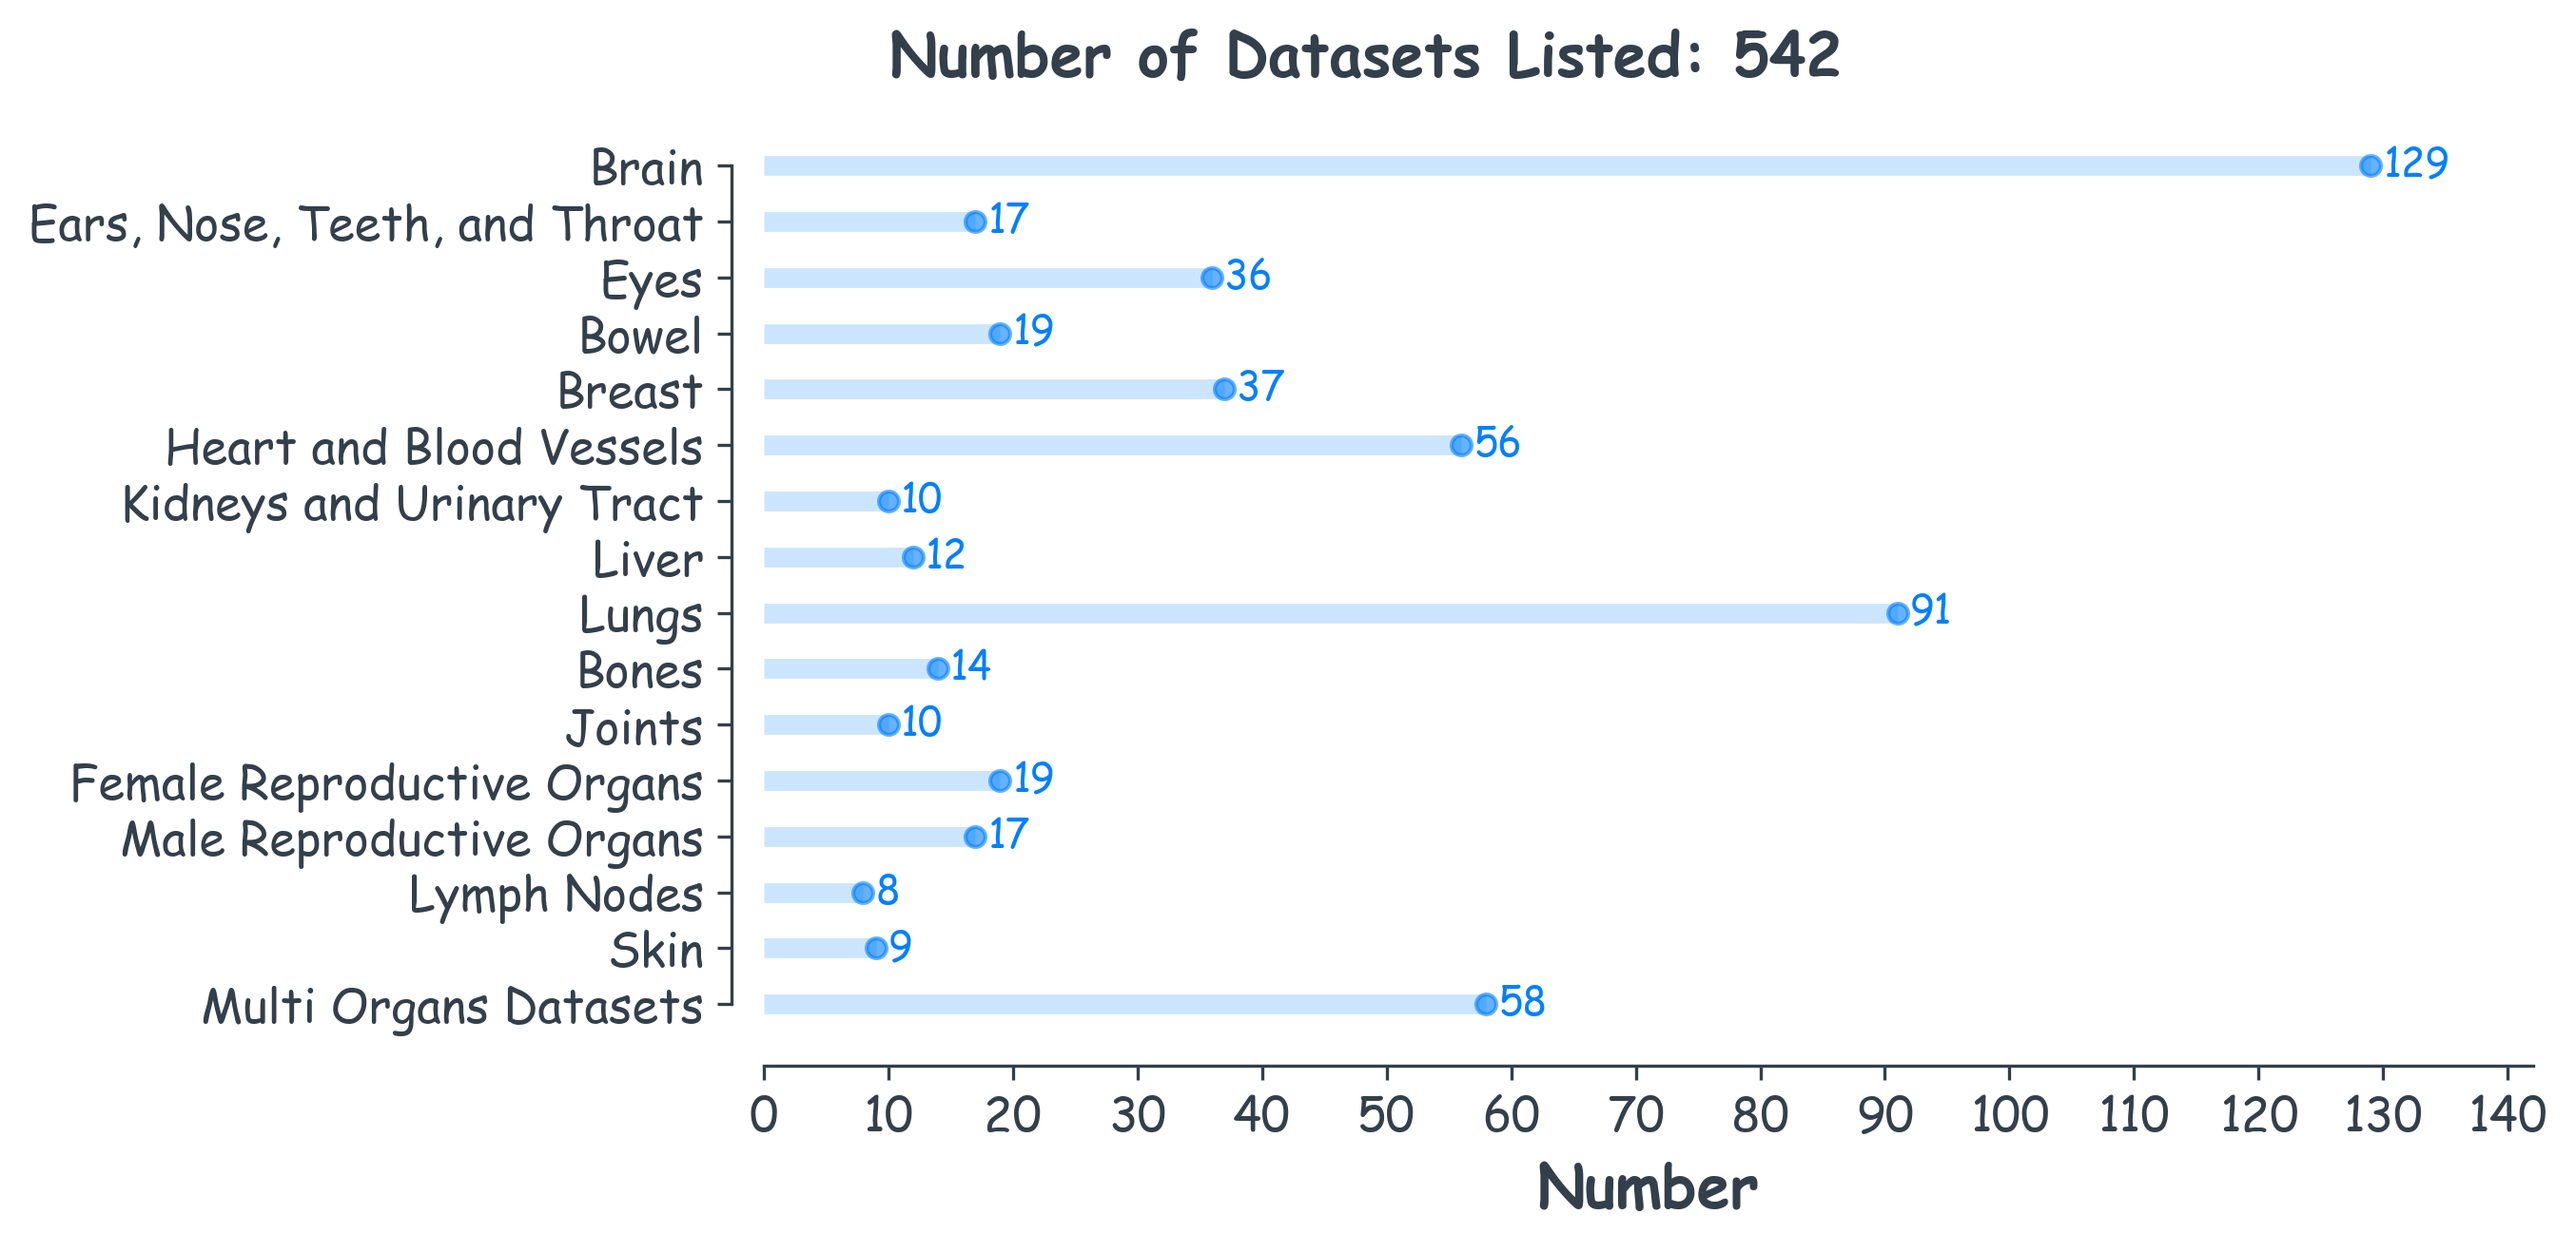
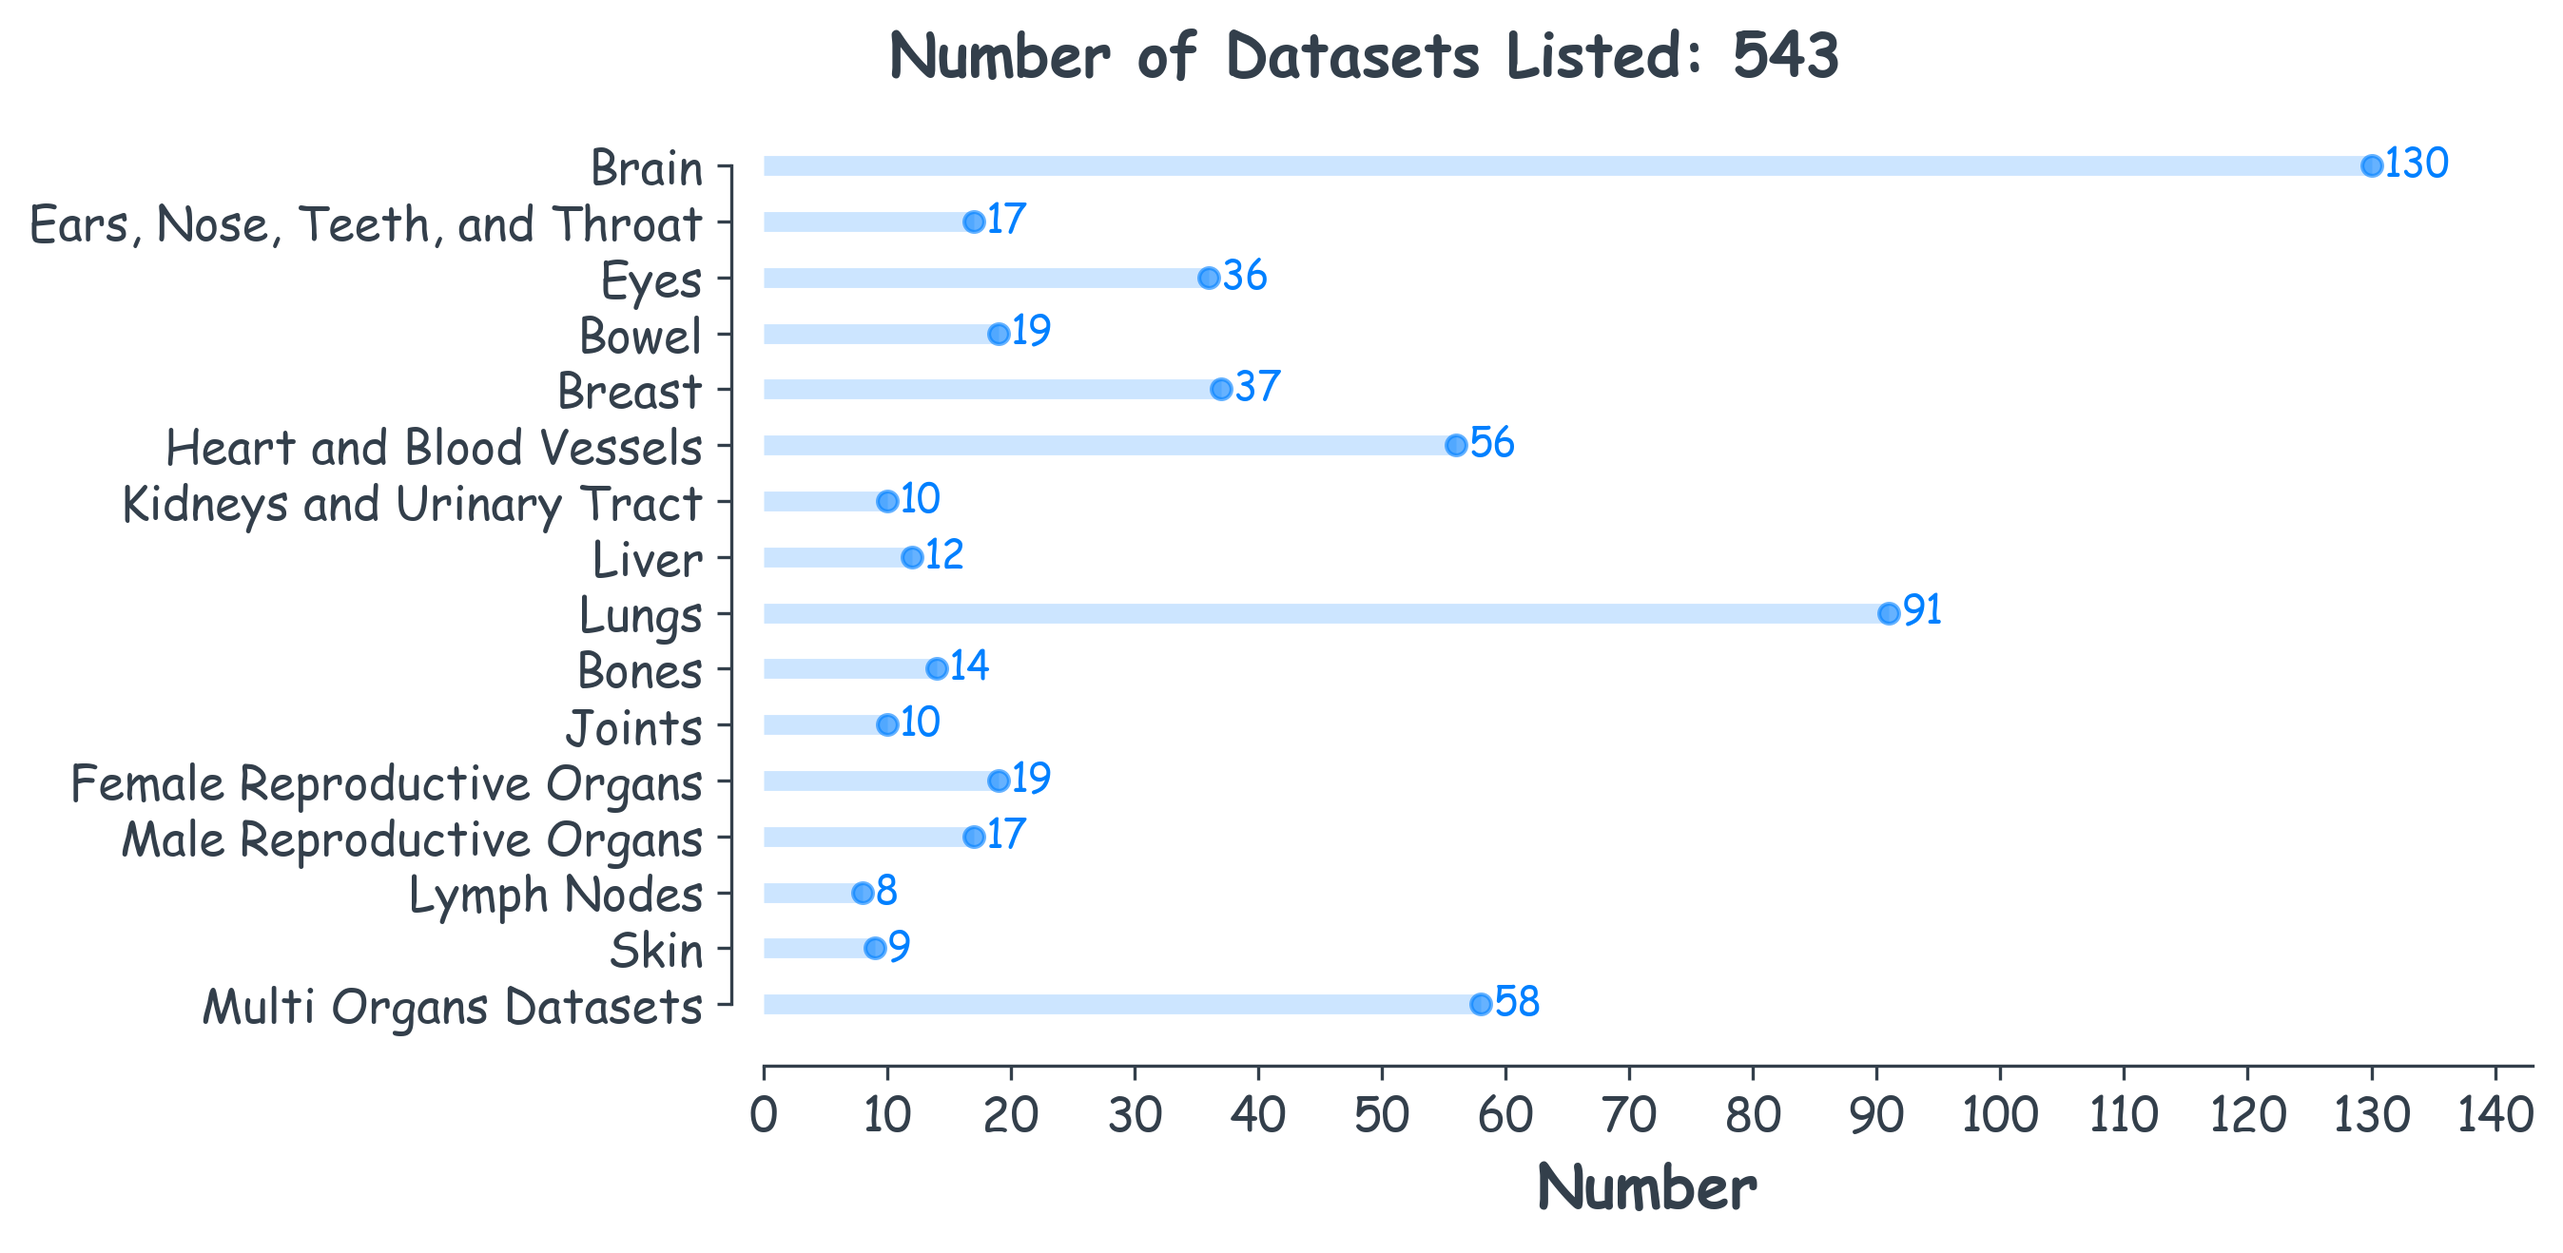
update image number, N = 543

diff --git a/src/datasetNumberImage.py b/src/datasetNumberImage.py
@@ -29,7 +29,7 @@ plt.rcParams['text.color']='#333F4B'
 
 
 data = {
-       'Brain': 129,
+       'Brain': 130,
        'Ears, Nose, Teeth, and Throat': 17, 
        'Eyes': 36,
        'Bowel': 19,
